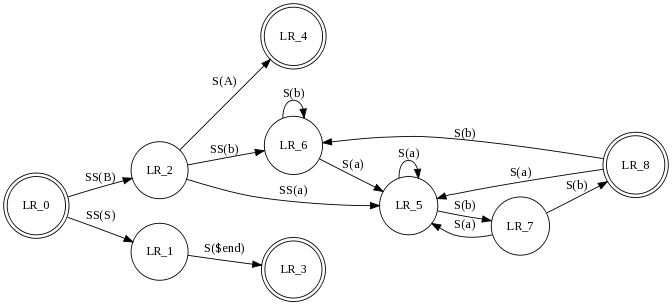
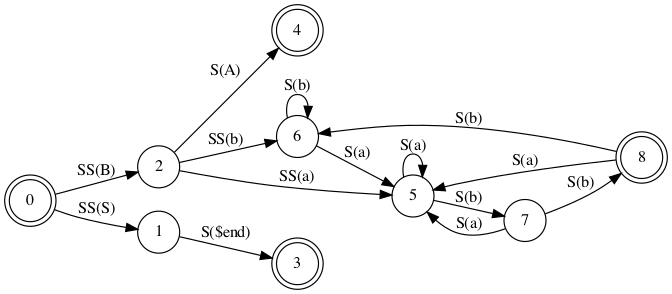
Update FSM Gallery example to be less confusing
Remove duplicate reference to LR concepts that mean totally different things.

Fixes #74

diff --git a/Gallery/directed/fsm.md b/Gallery/directed/fsm.md
@@ -8,7 +8,12 @@ svg: fsm.svg
 gv_file: fsm.gv.txt
 img_src: fsm.png
 ---
-This is a drawing of a finite automaton.
-The `rankdir` and `orientation` request a
-left-to-right drawing in landscape mode.
-Note the use of text labels on edges.
+This is a drawing of a toy [parser](https://en.wikipedia.org/wiki/LR_parser)
+finite automaton, probably generated by
+[Yacc](https://en.wikipedia.org/wiki/Yacc).
+
+The `rankdir=LR` attribute requests a left-to-right drawing, oriented in
+landscape mode. Note the use of text labels on edges.
+
+Computation begins at node `0`, and ends at "accept state" nodes, marked with
+double-circles.
